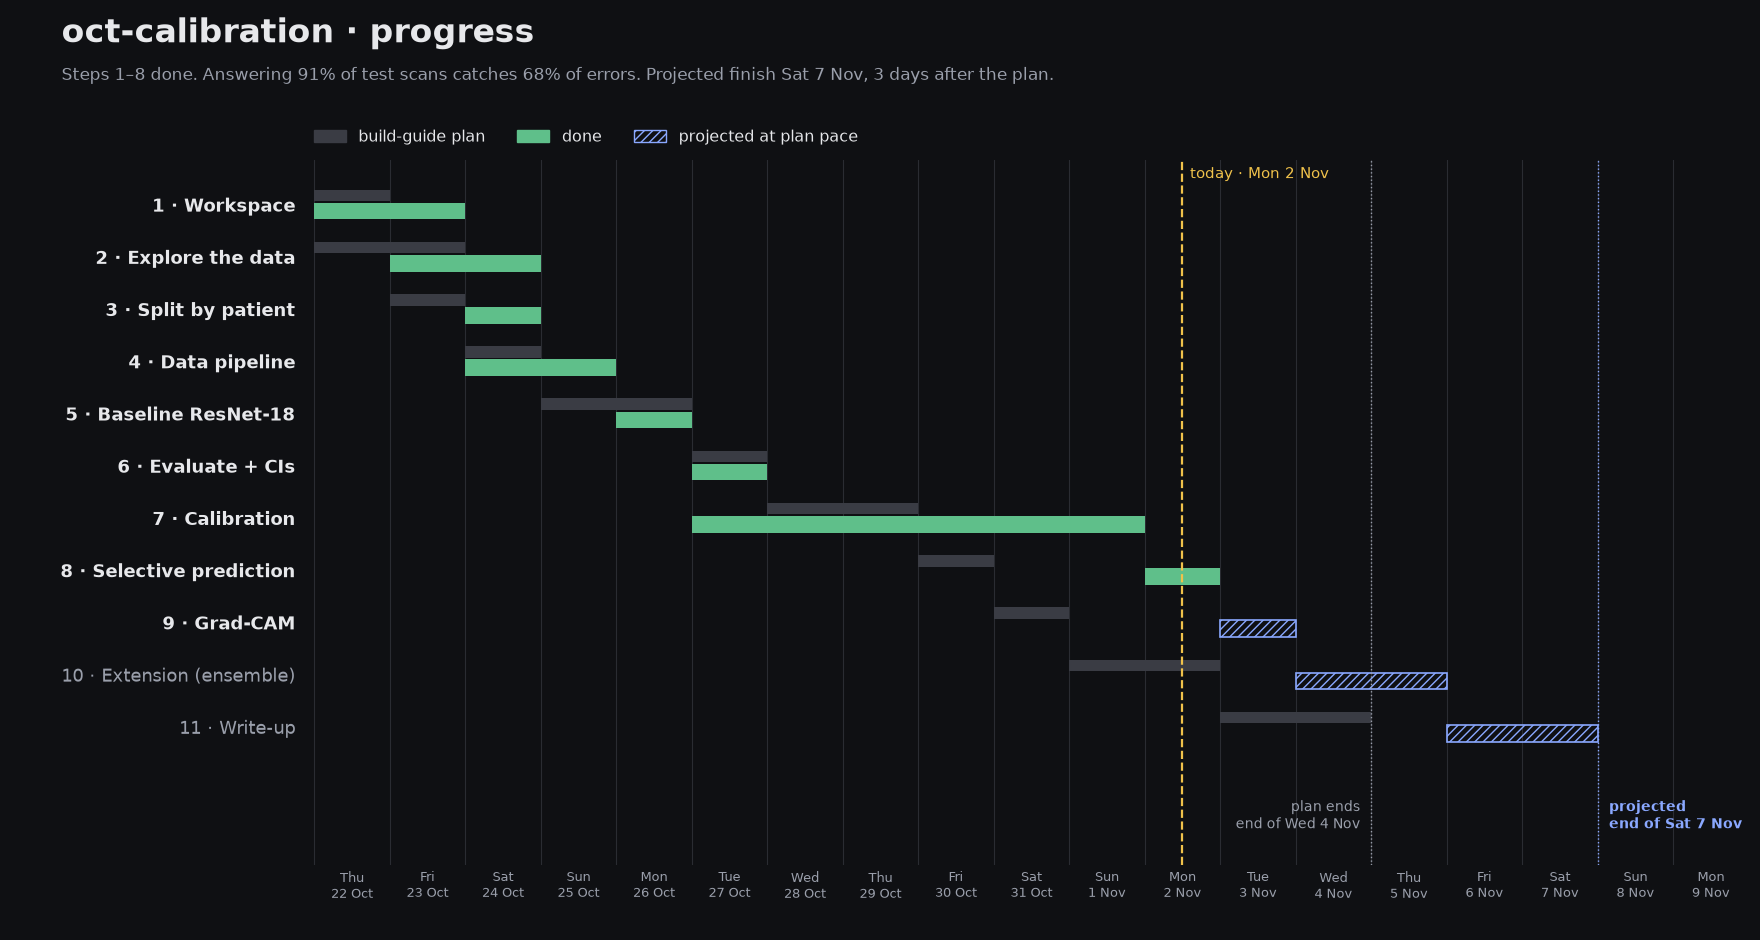
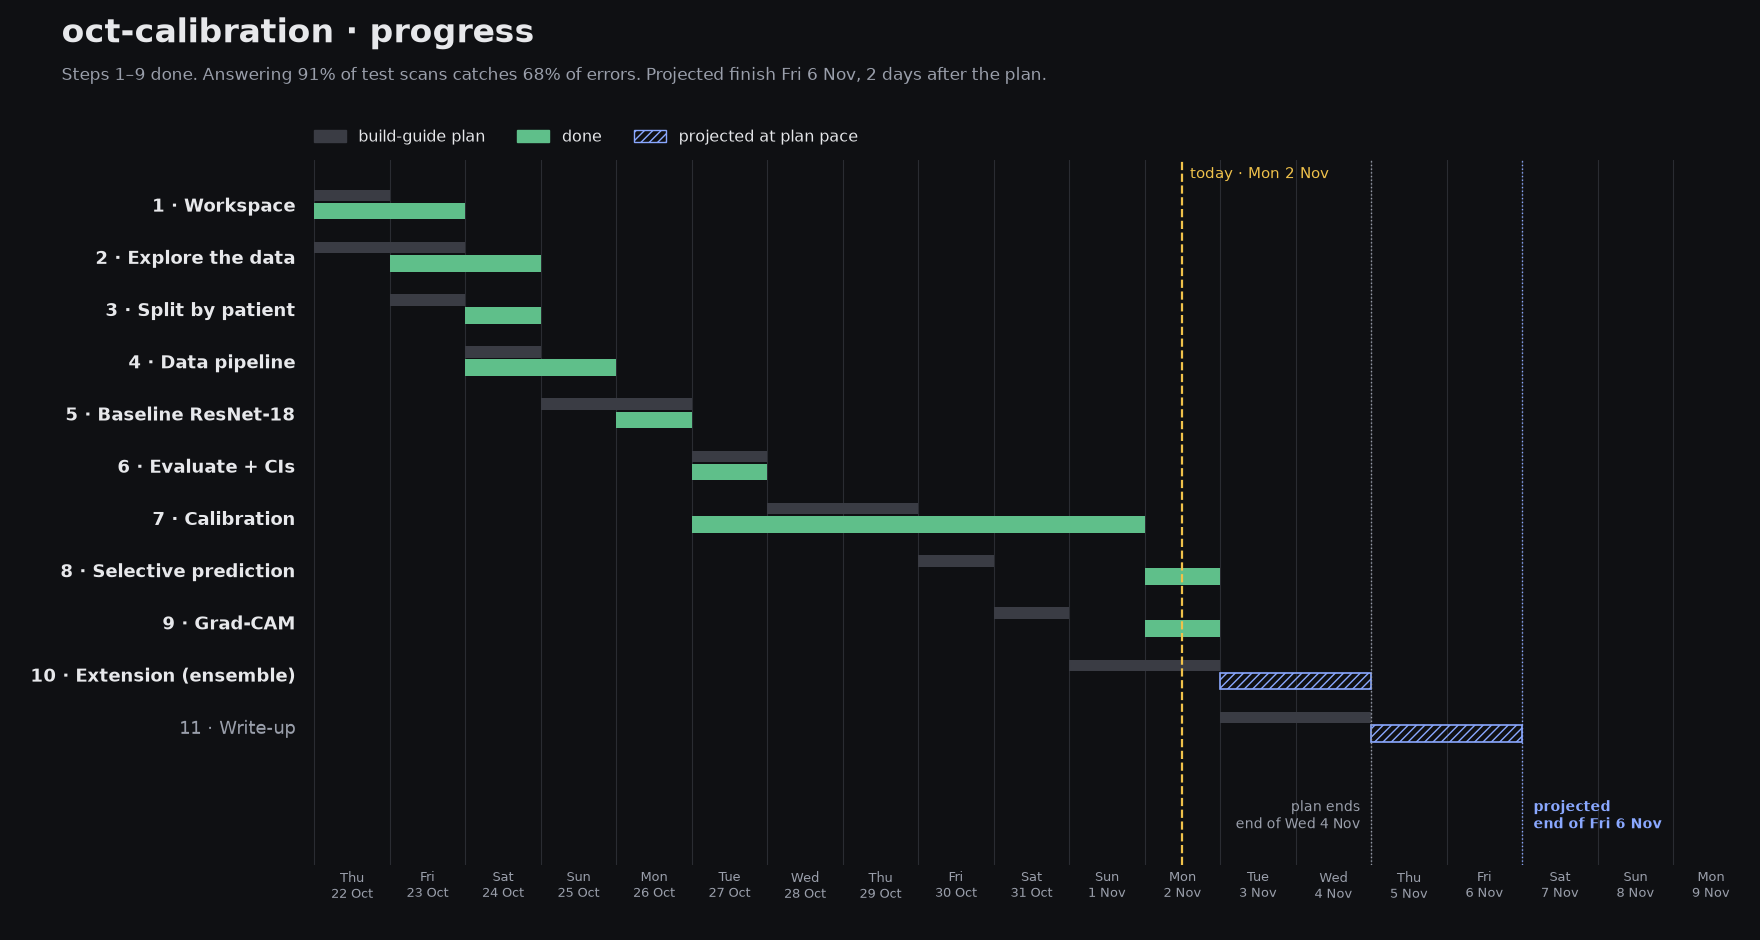
Step 9: Grad-CAM heatmaps on confident, wrong and unsure scans (#6)
All 6 confident test mistakes are drusen called CNV. Checked against
pytorch-grad-cam; no obvious size shortcut in the scans checked.

diff --git a/src/gradcam.py b/src/gradcam.py
@@ -1,0 +1,116 @@
+"""Step 9 Grad-CAM: where on the scan did the model look?
+
+GradCAM       hooks on a layer; returns a heatmap for any class of one scan
+select_scans  the three panels (confident right, confident wrong, least confident) from saved logits
+plot_panel    each scan above its heatmap
+gradcam_run   saves the panels and the size-shortcut check for one run folder
+
+A heatmap shows where the model looked, not why it was right. Runs on CPU.
+"""
+from __future__ import annotations
+
+from pathlib import Path
+
+import matplotlib.pyplot as plt
+import numpy as np
+import pandas as pd
+import torch
+from torch import nn
+from torchvision.io import ImageReadMode, decode_image
+from torchvision.transforms import v2
+
+from src.calibrate import fit_temperature
+from src.data import CLASSES
+from src.dataset import DEFAULT_SPLIT, build_transforms
+from src.model import build_model
+
+
+class GradCAM:
+    def __init__(self, model: nn.Module, layer: nn.Module):
+        self.model = model.eval()
+        layer.register_forward_hook(lambda _, __, output: setattr(self, "activations", output))
+        layer.register_full_backward_hook(lambda _, __, output: setattr(self, "gradients", output[0]))
+
+    def __call__(self, image: torch.Tensor, target: int | None = None) -> tuple[np.ndarray, int]:
+        """image is one normalised (3, H, W) scan. Returns (heatmap in 0-1 at input size, target)."""
+        logits = self.model(image[None])
+        target = int(logits.argmax(1)) if target is None else target
+        self.model.zero_grad()
+        logits[0, target].backward()
+        weights = self.gradients.mean((2, 3), keepdim=True)             # one weight per feature map
+        cam = nn.functional.relu((weights * self.activations).sum(1, keepdim=True))   # what argues for the class
+        cam = nn.functional.interpolate(cam, image.shape[1:], mode="bilinear", align_corners=False)[0, 0].detach()
+        return (cam / cam.max().clamp(min=1e-8)).numpy(), target
+
+
+def select_scans(run_dir, split: str = "test", n: int = 6, seed: int = 42, coverage: float = 0.90,
+                 split_csv=DEFAULT_SPLIT) -> tuple[pd.DataFrame, dict[str, np.ndarray]]:
+    """Scan table with prediction and calibrated confidence, plus row indices for the three panels.
+
+    The threshold comes from validation. Confident-wrong takes the most confident n, and
+    confident-right a random n; test has exactly 6 confident mistakes, so that panel is all of them.
+    """
+    run_dir = Path(run_dir)
+    val = torch.load(run_dir / "logits_val.pt")
+    T = fit_temperature(val["logits"], val["labels"])
+    threshold = np.quantile((val["logits"].double() / T).softmax(1).max(1).values.numpy(), 1 - coverage)
+    saved = torch.load(run_dir / f"logits_{split}.pt")
+    table = pd.read_csv(split_csv)
+    table = table[table["split"] == split].reset_index(drop=True).iloc[saved["rows"].numpy()].reset_index(drop=True)
+    probs = (saved["logits"].double() / T).softmax(1).numpy()
+    table["y"], table["pred"], table["confidence"] = saved["labels"].numpy(), probs.argmax(1), probs.max(1)
+    sure, right = table.confidence >= threshold, table.pred == table.y
+    wrong = table[sure & ~right].sort_values("confidence", ascending=False).index.to_numpy()
+    rng = np.random.default_rng(seed)
+    return table, {"confident_right": rng.choice(table[sure & right].index.to_numpy(), n, replace=False),
+                   "confident_wrong": wrong[:n],
+                   "least_confident": table.sort_values("confidence").index.to_numpy()[:n]}
+
+
+def plot_panel(cam: GradCAM, table: pd.DataFrame, rows, image_root, title: str, path=None):
+    """One column per scan: the model's input above the same scan with heat for the predicted class."""
+    transform, resize = build_transforms(False), v2.Resize((224, 224), antialias=True)
+    fig, axes = plt.subplots(2, len(rows), figsize=(2.6 * len(rows), 6), squeeze=False)
+    for j, r in enumerate(rows):
+        row = table.loc[r]
+        raw = decode_image(str(Path(image_root) / row.path), mode=ImageReadMode.GRAY)
+        heat, _ = cam(transform(raw))
+        shown = resize(raw)[0].numpy()
+        axes[0, j].imshow(shown, cmap="gray")
+        axes[0, j].set_title(f"true {CLASSES[row.y]}\nsaid {CLASSES[row.pred]}, {row.confidence:.1%}", fontsize=10)
+        axes[1, j].imshow(shown, cmap="gray")
+        axes[1, j].imshow(heat, cmap="jet", alpha=0.45, vmin=0, vmax=1)
+        for ax in axes[:, j]:
+            ax.axis("off")
+    fig.suptitle(title)
+    fig.tight_layout()
+    if path:
+        Path(path).parent.mkdir(parents=True, exist_ok=True)
+        fig.savefig(path, dpi=130, bbox_inches="tight")
+    return fig
+
+
+def gradcam_run(run_dir, image_root, out_dir, dme_512_paths=(), n: int = 6, seed: int = 42) -> pd.DataFrame:
+    """Saves the three test panels, plus a validation panel for the given 512x512 DME scans.
+
+    Returns the table of scans shown. dme_512_paths needs the original image sizes, which the
+    256x256 copy no longer has, so the caller finds them.
+    """
+    model = build_model(pretrained=False)
+    model.load_state_dict(torch.load(Path(run_dir) / "best.pt", map_location="cpu"))
+    cam = GradCAM(model, model.layer4)
+    out_dir = Path(out_dir)
+    table, panels = select_scans(run_dir, n=n, seed=seed)
+    titles = {"confident_right": "Confident and right", "confident_wrong": "Confident but wrong",
+              "least_confident": "Least confident"}
+    shown = []
+    for name, rows in panels.items():
+        plot_panel(cam, table, rows, image_root, f"{titles[name]} (test)", out_dir / f"{name}.png")
+        shown.append(table.loc[rows, ["path", "y", "pred", "confidence"]].assign(panel=name))
+    if len(dme_512_paths):
+        val, _ = select_scans(run_dir, "val", n=n, seed=seed)
+        rows = val[val.path.isin(dme_512_paths)].index.to_numpy()
+        rows = np.random.default_rng(seed).choice(rows, n, replace=False)
+        plot_panel(cam, val, rows, image_root, "DME at 512×512 (validation)", out_dir / "dme_512.png")
+        shown.append(val.loc[rows, ["path", "y", "pred", "confidence"]].assign(panel="dme_512"))
+    return pd.concat(shown).round(4)

diff --git a/README.md b/README.md
@@ -2,7 +2,7 @@
 
 **Can an eye-scan AI tell us when not to trust it?**
 
-![Status](https://img.shields.io/badge/status-step%209%20of%2011-2f5bd3)
+![Status](https://img.shields.io/badge/status-step%2010%20of%2011-2f5bd3)
 ![Data](https://img.shields.io/badge/data-Kermany%20OCT2017%20v3-555)
 ![Scans](https://img.shields.io/badge/scans-109%2C309-555)
 ![Licence](https://img.shields.io/badge/data%20licence-CC%20BY%204.0-555)
@@ -41,6 +41,7 @@ The technical detail is below. It's the imaging half of a wider question I work 
 | **Test score** (Step 6) | macro-F1 **0.981 (95% CI 0.971–0.990)**, patient-level bootstrap |
 | **Main mistake** (Step 6) | DRUSEN read as CNV: 15 of the 19 test errors |
 | **Calibration** (Step 7) | Over-confident on validation (confidence 0.978, accuracy 0.965). T = 1.25 lowers validation ECE from 0.0133 to 0.0059, but test ECE rises from 0.0069 to 0.0128; both changes' 95% intervals include zero |
+| **Where it looks** (Step 9) | All 6 confident test mistakes are drusen called CNV. Heat is mostly on the retina; no obvious size shortcut in the scans checked, though that isn't ruled out |
 | **Selective prediction** (Step 8) | Answering 91% of test scans catches 68% of errors (13 of 19; 95% CI 42–92%), and accuracy on answered scans rises from 98.1% to 99.3% |
 
 ## How the steps fit together
@@ -63,8 +64,8 @@ flowchart LR
     S6 & S8 & S9 --> S11["11 · Write-up"]
     classDef done fill:#147a4b,stroke:#147a4b,color:#fff
     classDef now fill:#2f5bd3,stroke:#2f5bd3,color:#fff
-    class S2,S3,S4,S5,S6,S7,S8 done
-    class S9 now
+    class S2,S3,S4,S5,S6,S7,S8,S9 done
+    class S10 now
 ```
 
 | Step | Question it answers | Needs (from) | Ran on | Uses | Produces | |
@@ -77,8 +78,8 @@ flowchart LR
 | **6 · Evaluate** | How sure is the score, and what does it confuse? | logits (5); patient IDs (3) | Mac, CPU, 9 s | [`src/evaluate.py`](src/evaluate.py): patient-level bootstrap | intervals, per-class table, confusion matrices ([`results/step6_*`](results/)) | ✅ |
 | **7 · Calibrate** | Does "98% sure" mean 98%? | logits (5); patient IDs (3) | Mac, CPU | [`src/calibrate.py`](src/calibrate.py): ECE, reliability diagrams, temperature scaling | T, before/after scores and diagrams ([`results/step7_*`](results/)) | ✅ |
 | **8 · Selective prediction** | If it answers only confident scans, how many mistakes does it catch? | calibrated probabilities (7) | Mac, CPU | [`src/selective.py`](src/selective.py): risk–coverage curve, threshold chosen on validation | the headline result, plot and tables ([`results/step8_*`](results/)) | ✅ |
-| **9 · Grad-CAM** | What does it look at, especially when confidently wrong? | `best.pt` (5), mistakes (6) | Kaggle or Mac | Grad-CAM | heatmaps; tests the DRUSEN/CNV and 512×512 hypotheses | ⏳ |
-| **10 · Extension** | Does an ensemble give more honest confidence? | pipeline (4), training (5) | Kaggle GPU | e.g. a deep ensemble | new logits, rerun through 6–8 | |
+| **9 · Grad-CAM** | What does it look at, especially when confidently wrong? | `best.pt` (5), mistakes (6) | Kaggle or Mac | [`src/gradcam.py`](src/gradcam.py): Grad-CAM, checked against `pytorch-grad-cam` | heatmap panels ([`figures/step9/`](figures/step9/)) | ✅ |
+| **10 · Extension** | Does an ensemble give more honest confidence? | pipeline (4), training (5) | Kaggle GPU | e.g. a deep ensemble | new logits, rerun through 6–8 | ⏳ |
 | **11 · Write-up** | What does it all add up to? | everything | – | – | this README in its final form | |
 
 ![Progress timeline](figures/timeline.png)
@@ -114,7 +115,7 @@ Before writing any code, I learned to label these by eye. Over three practice ro
 
 The fix gives an identical split on scikit-learn 1.6, 1.7 and 1.9, and the split is saved as a file that every later step reads ([comparison](results/step3_split_comparison.csv)).
 
-**4. The scans aren't one size, and one size gives away a class.** (Steps 2 and 4) There are 8 image sizes, from 512×512 to 1536×496 ([table](results/step2_image_sizes.csv)). **Every 512×512 scan is DME**: 8,659 scans, about 75% of all DME ([table](results/step4_size_by_class.csv)). They probably come from a different scanner or clinic, so a model could learn the scanner instead of the disease. That decided the resize: a plain resize to 224×224, because padding to a square would leave black bars on every scan except those DME ones. Grad-CAM in Step 9 checks whether the model takes the shortcut anyway.
+**4. The scans aren't one size, and one size gives away a class.** (Steps 2 and 4) There are 8 image sizes, from 512×512 to 1536×496 ([table](results/step2_image_sizes.csv)). **Every 512×512 scan is DME**: 8,659 scans, about 75% of all DME ([table](results/step4_size_by_class.csv)). They probably come from a different scanner or clinic, so a model could learn the scanner instead of the disease. That decided the resize: a plain resize to 224×224, because padding to a square would leave black bars on every scan except those DME ones. Grad-CAM in Step 9 found no obvious sign of the shortcut in the scans checked, which doesn't rule it out.
 
 ![Resize vs pad on a 1024×496 CNV scan](figures/step4/resize_vs_pad_CNV-1032178-1.png)
 
@@ -163,7 +164,7 @@ The weakest class is DRUSEN (validation F1 0.86), mostly confused with CNV ([per
 
 ![Test confusion matrix](figures/step6/confusion_test.png)
 
-**The main confusion is DRUSEN read as CNV: 15 of the 19 test mistakes.** Likely because both raise the RPE, and what separates them is subtle (a hypothesis that Grad-CAM in Step 9 can test). Drusen are small, smooth, regular bumps under intact layers, while CNV is an irregular hump, often with fluid above it. It's the same distinction I got wrong in my first two labelling rounds.
+**The main confusion is DRUSEN read as CNV: 15 of the 19 test mistakes.** Likely because both raise the RPE, and what separates them is subtle (a hypothesis; Step 9's heatmaps fit it but can't prove it). Drusen are small, smooth, regular bumps under intact layers, while CNV is an irregular hump, often with fluid above it. It's the same distinction I got wrong in my first two labelling rounds.
 
 Four things the table doesn't show on its own:
 - **The balanced test set hides a second weak spot.** On validation (real class mix), 86 of 1,135 DME scans (7.6%) were called NORMAL; on test, none were ([confusion matrix](figures/step6/confusion_val.png)).
@@ -221,6 +222,21 @@ Sort scans by confidence, answer the top ones and flag the rest. Each threshold 
 
 </details>
 
+<details open>
+<summary><b>Step 9 · Grad-CAM</b>: where the model looked</summary>
+
+Heatmaps show which regions most influenced an answer. They show where the model looked, not why it was right.
+
+![All 6 confident test mistakes, with heatmaps](figures/step9/confident_wrong.png)
+
+- **Measured:** test has exactly 6 mistakes above the confidence threshold. All 6 are drusen called CNV, from 5 patients. A doctor wouldn't be shown these.
+- **Confident mistakes:** all have bumps along the RPE, often several and uneven, with heat on them. A hypothesis is that uneven drusen resemble the irregular CNV hump. Six scans can't prove it, and other bumpy drusen weren't confident mistakes.
+- **Size shortcut:** in [six 512×512 DME scans](figures/step9/dme_512.png), heat is on fluid where it's visible, not on corners or borders. That shows no obvious shortcut there but can't rule one out.
+- **Other panels:** [confident and right](figures/step9/confident_right.png), [least confident](figures/step9/least_confident.png). Scans shown are [listed here](results/step9_scans_shown.csv).
+- **Caution:** the heat is nearly always a central blob on coarse 7×7 maps, and the retina usually sits in the middle, so "on the retina" may be partly a centring effect.
+
+</details>
+
 ## Data
 
 **Kermany, Zhang & Goldbaum (2018), OCT2017, Mendeley Data v3** ([doi:10.17632/rscbjbr9sj.3](https://data.mendeley.com/datasets/rscbjbr9sj/3)), licensed CC BY 4.0. This is the release used in the [*Cell* paper](https://www.cell.com/cell/fulltext/S0092-8674(18)30154-5).
@@ -255,6 +271,7 @@ src/        project code
             evaluate.py  metrics, bootstrap, confusion  (Step 6)
             calibrate.py ECE, temperature, reliability  (Step 7)
             selective.py risk–coverage, thresholds          (Step 8)
+            gradcam.py   heatmaps and panels                (Step 9)
 splits/     the saved patient split that every step from 3 on reads
 results/    small CSV tables of every result, one file per step (index in results/README.md)
 figures/    figures used in NOTES.md and this README, one folder per step
@@ -301,6 +318,10 @@ T, table = calibrate_run("runs/step5_baseline", "figures/step7/reliability.png")
 from src.selective import selective_run
 
 tables = selective_run("runs/step5_baseline", "figures/step8/risk_coverage.png")   # Step 8, CPU
+
+from src.gradcam import gradcam_run
+
+shown = gradcam_run("runs/step5_baseline", "path/to/OCT256", "figures/step9")   # Step 9, CPU, 256×256 scans
 ```
 
 

diff --git a/NOTES.md b/NOTES.md
@@ -19,6 +19,10 @@ One entry a day: what I tried, what broke, what I learned. Newest first.
 - Decisions: 90% coverage as the headline with 80% and 95% for context, compare margin and entropy with confidence, patient-level intervals on the headline, report the flag rate per class.
 - `src/selective.py` written and run on the saved logits. Flagging about 9% of test scans catches **13 of 19 errors (68%, 95% CI 42–92%)**, and accuracy on answered scans rises from 98.1% to 99.3%.
 
+- Merged Step 8 (PR #5). Started Step 9 on `step9-gradcam` and read its concepts page.
+- `src/gradcam.py` written; it matches the `pytorch-grad-cam` library (correlation above 0.9999 on all 18 test panel scans). Four panels saved. All 6 confident test mistakes are drusen called CNV.
+- Read the panels: heat mostly on the retina, and on RPE bumps in the confident mistakes (see Step 9). No obvious size shortcut in the six 512×512 DME scans, though that can't be ruled out. Step 9 done.
+
 </details>
 
 <details>
@@ -458,6 +462,40 @@ Accuracy on all scans is 96.5% on validation and 98.1% on test. Tables: [operati
 - **Flagging falls mostly on DRUSEN:** at 90%, 23.2% of test DRUSEN and 35.5% of validation DRUSEN are flagged, against 2.4–6.0% and 4.6–15.4% for the other classes.
 - **Margin and entropy add nothing clear** (test AURC 0.0023 and 0.0025; validation 0.0058 and 0.0059), so plain confidence stays.
 - **Limit:** these numbers describe this data. Test looks like a different acquisition (Step 7), so they aren't a clinical guarantee.
+
+</details>
+
+<details>
+<summary><strong>Step 9 · Grad-CAM</strong></summary>
+
+Heatmaps for the predicted class, from the last ResNet block (`src/gradcam.py`), run on the 256×256 scans the model trained on. They show where the model looked, not why it was right.
+
+### Measured
+
+- The 256×256 copy reproduces the saved test predictions on all 1,000 scans.
+- Test has exactly 6 mistakes above the 0.922 threshold. **All 6 are drusen called CNV**, from 5 patients (`DRUSEN-6420074` appears twice).
+- Scans shown are listed in [`results/step9_scans_shown.csv`](results/step9_scans_shown.csv).
+
+### Panels
+
+![Confident and right](figures/step9/confident_right.png)
+![Confident but wrong](figures/step9/confident_wrong.png)
+![Least confident](figures/step9/least_confident.png)
+![DME at 512×512, validation](figures/step9/dme_512.png)
+
+### My reading
+
+**Confident and right:** The heat is on the retina in all six scans, and sits on the visible lesion where there is one, such as the drusen dome, the fluid pockets and the CNV hump. In the two NORMAL scans it sits around the central layers and the foveal dip, so there's no lesion to compare it with.
+
+**Confident but wrong:** The heat sits on the bumps along the RPE in all six scans, not on corners or background. So the model looked at a plausible area and still gave the wrong answer.
+
+**Least confident:** The heat is mostly on the retina but is less consistent. In one drusen scan it sits at the left edge, with no clear bump beneath it, and in one DME scan it spreads towards the top-right edge of the image.
+
+**DME at 512×512:** Where fluid is visible, the heat is on that area, with no heat on corners or borders. One scan (86.9%) has no fluid I can clearly see, but its heat is still inside the retinal area. This shows no obvious size shortcut in these six scans, but it can't rule one out, and three of them come from one patient.
+
+**The pattern in the confident mistakes:** all six have bumps along the RPE, often several and uneven, rather than one smooth dome, and the heat sits on them. My hypothesis is that uneven drusen look enough like the irregular CNV hump to mislead the model. Six scans can't prove this, and bumpiness alone doesn't explain it: the least-confident panel also has drusen with several bumps, and those weren't confident mistakes.
+
+**Caution:** the heat is nearly always a central blob, and the retina usually sits in the middle, so "on the retina" may be partly a centring effect. These maps can't tell the difference.
 
 </details>
 

diff --git a/docs/OCT-Build-Guide.md b/docs/OCT-Build-Guide.md
@@ -441,11 +441,11 @@ Numbers say *how often* the model is wrong; heatmaps hint at *why*. If confident
 
 ### What you'll do
 
-- [ ] **Implement Grad-CAM yourself** with forward and backward hooks on the last ResNet block (`layer4`). It's about 25 lines once you understand the paper's section 3.
+- [x] **Implement Grad-CAM yourself** with forward and backward hooks on the last ResNet block (`layer4`). It's about 25 lines once you understand the paper's section 3.
 
-- [ ] **Make three panels of 6 scans each:** confident and correct, confident but wrong, and least confident.
+- [x] **Make three panels of 6 scans each:** confident and correct, confident but wrong, and least confident.
 
-- [ ] **Write two sentences per panel** in `NOTES.md`: is the heat on the retinal layers and the lesion, or on artefacts?
+- [x] **Write two sentences per panel** in `NOTES.md`: is the heat on the retinal layers and the lesion, or on artefacts?
 
 
 ### Learn first
@@ -469,6 +469,8 @@ Three saved figures and a named pattern shared by the confident mistakes, for ex
 ### Done when
 
 Three panels are saved and you can name one pattern the confident mistakes share.
+
+> ✅ Done Mon 2 Nov 2026: all 6 confident test mistakes are drusen called CNV, with heat on uneven RPE bumps. Checked against `pytorch-grad-cam`. Details in `NOTES.md` (Step 9 · Grad-CAM).
 
 
 ### Watch for

diff --git a/results/README.md b/results/README.md
@@ -22,5 +22,6 @@ Small, plain CSV tables of every result, so numbers can be checked or reused wit
 | `step8_operating_points.csv` | Answered and flagged results at 95%, 90% and 80% target coverage, on validation and test, with patient-level intervals on test |
 | `step8_per_class.csv` | Share of each class flagged at each threshold |
 | `step8_score_comparison.csv` | AURC for confidence, margin and entropy |
+| `step9_scans_shown.csv` | Every scan in the Grad-CAM panels, with true class, prediction and confidence |
 
 All Step 2 numbers come from `src.data.build_index` on Kermany OCT2017, Mendeley v3 (109,309 images).
